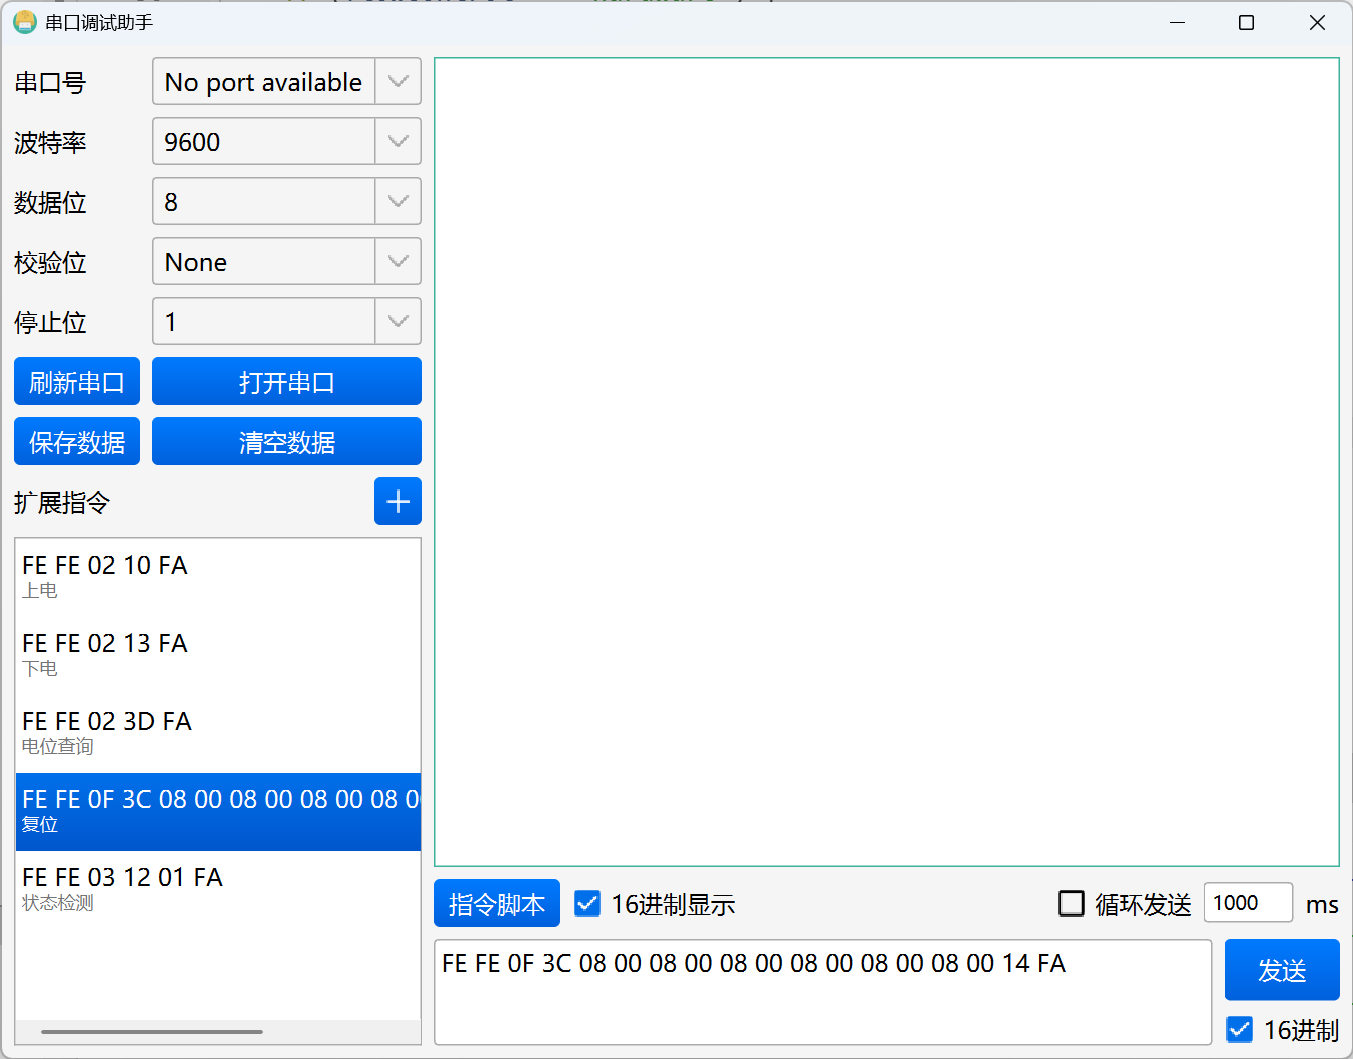
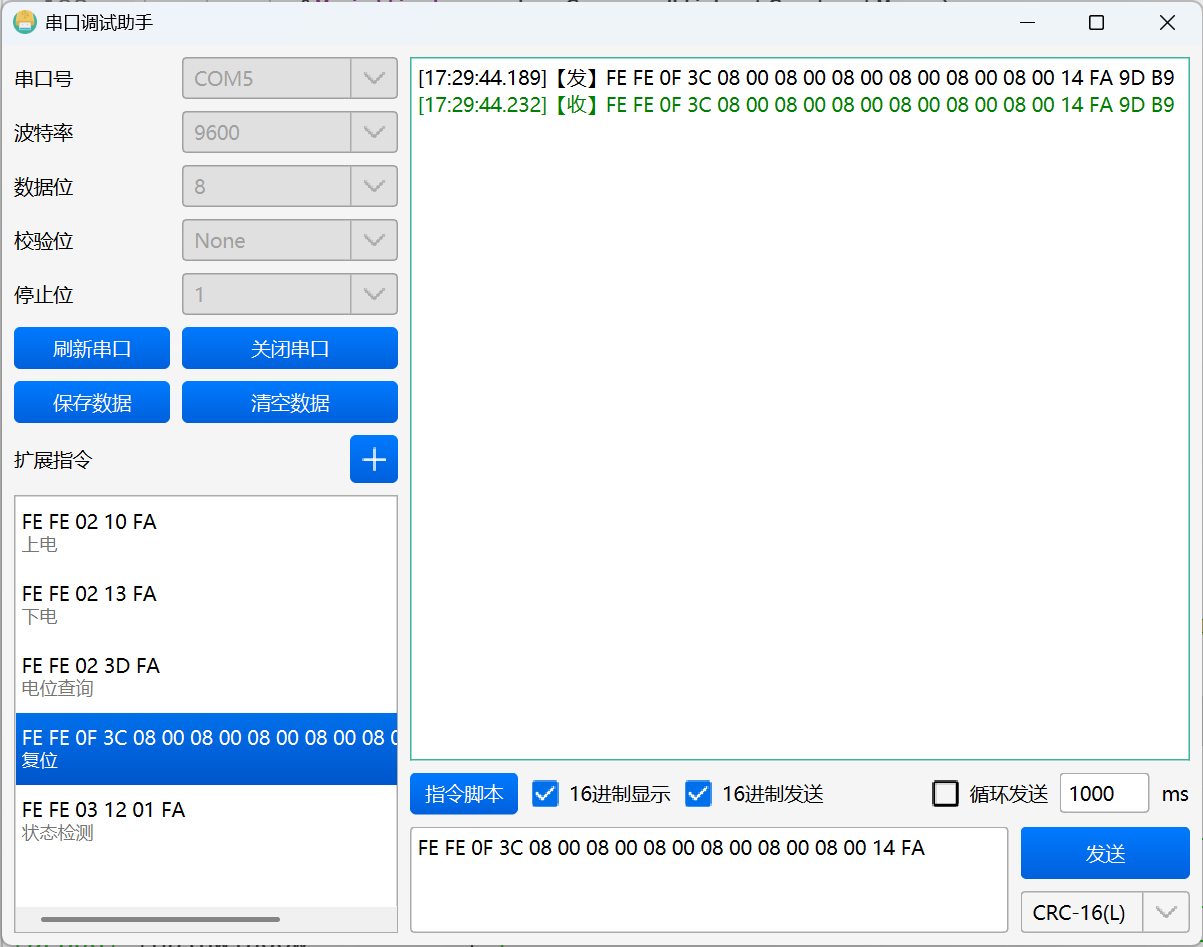
feat: 添加校验码发送功能

diff --git a/MainWindow.cpp b/MainWindow.cpp
@@ -79,6 +79,7 @@ MainWindow::MainWindow(QMainWindow *parent)
   ui->dataBitBox->setView(new QListView());
   ui->parityBitBox->setView(new QListView());
   ui->stopBitBox->setView(new QListView());
+  ui->checkCodeBox->setView(new QListView());
 
   initPortParam(ui);
 
@@ -92,6 +93,11 @@ MainWindow::MainWindow(QMainWindow *parent)
 
   QIntValidator *validator = new QIntValidator(1, 99999, this);
   ui->timeLineEdit->setValidator(validator);
+
+  // 初始化校验码类型下拉框
+  for (const QString &type : checkCodeTypes) {
+    ui->checkCodeBox->addItem(type);
+  }
 
   // 初始化任务执行器
   executorPtr = new TaskExecutor(this);
@@ -122,6 +128,8 @@ MainWindow::MainWindow(QMainWindow *parent)
   connect(ui->timeCheckBox, &QCheckBox::stateChanged, this,
           &MainWindow::onTimeCheckBoxStateChanged);
   connect(ui->hexReceiveCheckBox, &QCheckBox::stateChanged, this,
+          &MainWindow::onDecodeCheckBoxStateChanged);
+  connect(ui->hexSendCheckBox, &QCheckBox::stateChanged, this,
           &MainWindow::onEncodeCheckBoxStateChanged);
 
   // ========== 一次性连接 SerialPortManager 的所有信号 ==========
@@ -372,7 +380,14 @@ void MainWindow::sendCommand(const QString &command) {
       QMessageBox::warning(this, "警告", "请输入16进制字符串！");
       return;
     }
-    const QByteArray data = Utils::formatHexString(command);
+    const QByteArray value = Utils::formatHexString(command);
+
+    // 需要判断校验码方式
+    const auto currentIndex = ui->checkCodeBox->currentIndex();
+    _logger.dFmt("采用【%s】校验方式发送指令",
+                 checkCodeTypes[currentIndex].toStdString().c_str());
+    const auto data = appendCheckCode(value, currentIndex);
+
     SerialPortManager::get()->write(data);
     updatePortMessageLog(data, "发");
   } else {
@@ -481,7 +496,7 @@ void MainWindow::uncheckTimeCheckBox() {
   ui->timeCheckBox->blockSignals(false);
 }
 
-void MainWindow::onEncodeCheckBoxStateChanged(const qint16 &state) {
+void MainWindow::onDecodeCheckBoxStateChanged(const qint16 &state) {
   ui->messageView->clear(); // 清空当前显示
   const QList<PortMessage> &listRef = history;
   if (state == Qt::Checked) {
@@ -523,6 +538,74 @@ void MainWindow::onEncodeCheckBoxStateChanged(const qint16 &state) {
   }
 
   ui->messageView->ensureCursorVisible(); // 自动滚到底部
+}
+
+void MainWindow::onEncodeCheckBoxStateChanged(const qint16 &state) {
+  if (state == Qt::Checked) {
+    ui->checkCodeBox->setDisabled(false);
+  } else {
+    ui->checkCodeBox->setDisabled(true);
+  }
+}
+
+QByteArray MainWindow::appendCheckCode(const QByteArray &command,
+                                       const int &checkCodeType) {
+  switch (checkCodeType) {
+  case 0:
+    // 无校验码，直接返回原始指令
+    return command;
+  case 1:
+    // CRC-8 校验码
+    {
+      uint8_t crc8 = Utils::calculateCRC8(command);
+      QByteArray result = command;
+      result.append(crc8);
+      return result;
+    }
+    break;
+  case 2:
+    // CRC-16(L) 校验码（低字节在前）
+    {
+      uint16_t crc16 = Utils::calculateCRC16(command);
+      QByteArray result = command;
+      result.append(crc16 & 0xFF);        // 低字节
+      result.append((crc16 >> 8) & 0xFF); // 高字节
+      return result;
+    }
+    break;
+  case 3:
+    // CRC-16(H) 校验码（高字节在前）
+    {
+      uint16_t crc16 = Utils::calculateCRC16(command);
+      QByteArray result = command;
+      result.append((crc16 >> 8) & 0xFF); // 高字节
+      result.append(crc16 & 0xFF);        // 低字节
+      return result;
+    }
+    break;
+  case 4:
+    // XOR 校验码
+    {
+      uint8_t xorCode = Utils::calculateXOR(command);
+      QByteArray result = command;
+      result.append(xorCode);
+      return result;
+    }
+    break;
+  case 5:
+    // Checksum 校验码（简单求和取反）
+    {
+      uint8_t checksum = Utils::calculateChecksum(command);
+      QByteArray result = command;
+      result.append(checksum);
+      return result;
+    }
+    break;
+  default:
+    // 理论上不应该出现这个分支，因为 UI 上的下拉框选项是固定的
+    // 为了安全起见，还是加上默认分支，直接返回原始指令
+    return command;
+  }
 }
 
 void MainWindow::executeTask(const QString &command) { sendCommand(command); }

diff --git a/Utils.cpp b/Utils.cpp
@@ -51,3 +51,49 @@ bool Utils::isPositiveInt(const QString &str) {
   const int value = str.toInt(&ok);
   return ok && value > 0;
 }
+
+uint8_t Utils::calculateCRC8(const QByteArray &data) {
+  uint8_t crc = 0x00;
+  for (const auto &byte : data) {
+    crc ^= static_cast<uint8_t>(byte);
+    for (int i = 0; i < 8; ++i) {
+      if (crc & 0x80) {
+        crc = (crc << 1) ^ 0x07;
+      } else {
+        crc <<= 1;
+      }
+    }
+  }
+  return crc;
+}
+
+uint16_t Utils::calculateCRC16(const QByteArray &data) {
+  uint16_t crc = 0xFFFF;
+  for (const auto &byte : data) {
+    crc ^= static_cast<uint8_t>(byte);
+    for (int i = 0; i < 8; ++i) {
+      if (crc & 0x0001) {
+        crc = (crc >> 1) ^ 0xA001;
+      } else {
+        crc >>= 1;
+      }
+    }
+  }
+  return crc;
+}
+
+uint8_t Utils::calculateXOR(const QByteArray &data) {
+  uint8_t xorCode = 0x00;
+  for (const auto &byte : data) {
+    xorCode ^= static_cast<uint8_t>(byte);
+  }
+  return xorCode;
+}
+
+uint8_t Utils::calculateChecksum(const QByteArray &data) {
+  uint8_t checksum = 0x00;
+  for (const auto &byte : data) {
+    checksum += static_cast<uint8_t>(byte);
+  }
+  return ~checksum; // 取反
+}

diff --git a/MainWindow.hpp b/MainWindow.hpp
@@ -35,6 +35,8 @@ private:
 
   QList<PortMessage> history;
   QTimer *timerPtr = nullptr;
+  QList<QString> checkCodeTypes = {"无校验码",  "CRC-8", "CRC-16(L)",
+                                   "CRC-16(H)", "XOR",   "Checksum"};
 
   void updateComboxState(bool disabled) const;
 
@@ -69,7 +71,14 @@ private:
 
   void uncheckTimeCheckBox();
 
+  // 解码显示
+  void onDecodeCheckBoxStateChanged(const qint16 &state);
+
+  // 编码发送
   void onEncodeCheckBoxStateChanged(const qint16 &state);
+
+  QByteArray appendCheckCode(const QByteArray &command,
+                             const int &checkCodeType);
 
 private slots:
   void executeTask(const QString &command);

diff --git a/Utils.hpp b/Utils.hpp
@@ -19,6 +19,14 @@ public:
   static bool isHexString(const QString &command);
 
   static bool isPositiveInt(const QString &str);
+
+  static uint8_t calculateCRC8(const QByteArray &data);
+
+  static uint16_t calculateCRC16(const QByteArray &data);
+
+  static uint8_t calculateXOR(const QByteArray &data);
+
+  static uint8_t calculateChecksum(const QByteArray &data);
 };
 
 #endif // UTILS_H